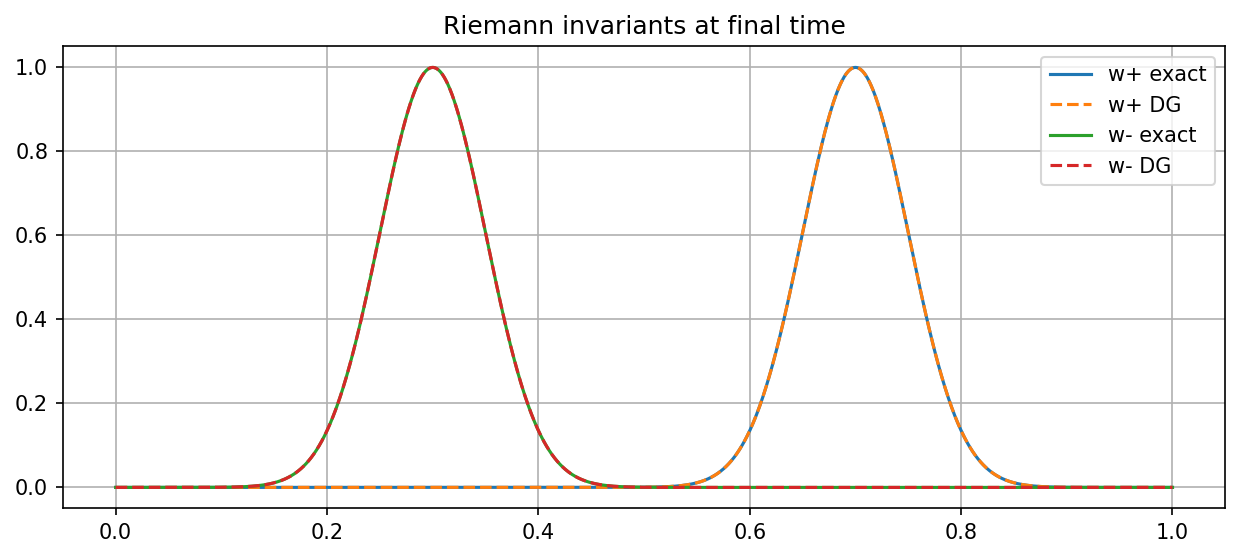
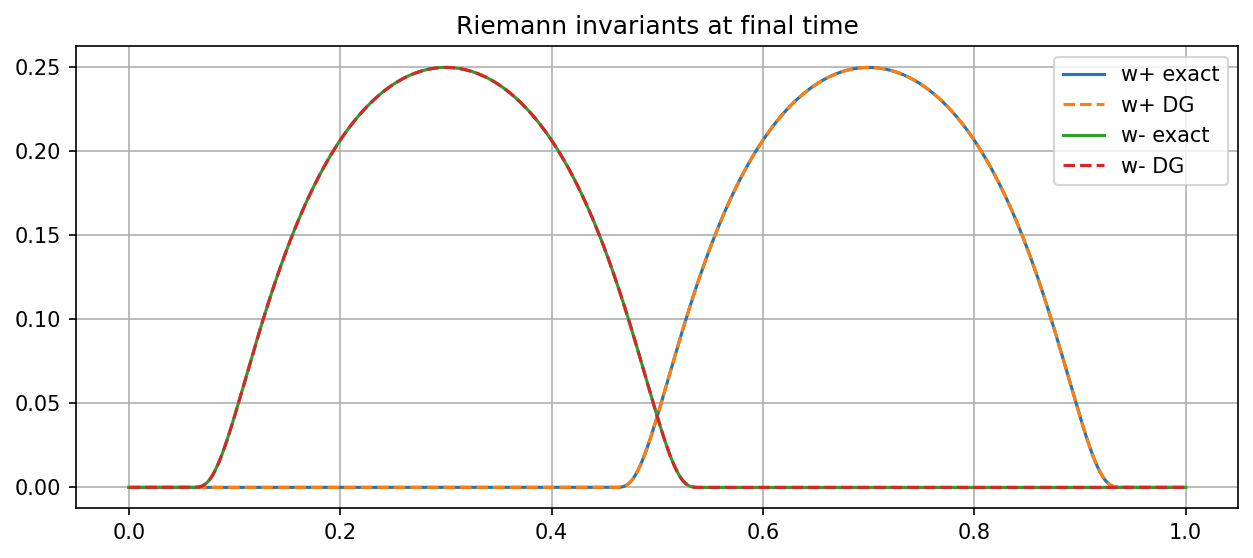
update git ignore and initial condition

diff --git a/Report&Presentation/report.tex b/Report&Presentation/report.tex
@@ -231,7 +231,29 @@ As shown in Figure \ref{fig:dg_solution}, the numerical solution obtained using 
 the wave propagation over time described in \ref{eq:solution_p} and \ref{eq:solution_v}. The method effectively resolves the wave fronts 
 and maintains stability throughout the simulation.
 
+The convergence of the DG method was verified by comparing the numerical solution to the analytical solution at various time steps with an Explicit Euler
+time integration scheme and a Runge-Kutta 2nd order scheme. 
+\newpage
+\begin{figure}[htbp]
+    \centering
+    \begin{minipage}[t]{0.48\textwidth}
+        \centering
+        \includegraphics[width=\textwidth]{Images/dg_convergence_euler.png}
+        \caption{Convergence of the DG method with Explicit Euler scheme.}
+        \label{fig:convergence_plot_euler}
+    \end{minipage}
+    \hfill
+    \begin{minipage}[t]{0.48\textwidth}
+        \centering
+        \includegraphics[width=\textwidth]{Images/dg_convergence_rk2.png}
+        \caption{Convergence of the DG method with Rk2 scheme.}
+        \label{fig:convergence_plot_rk2}
+    \end{minipage}
+\end{figure}
 
+The convergences verify the theoritical rates of convergence for the DG method with polynomial degree $d$ : order $d$ for the Explicit Euler scheme and order $2d$ for the Runge-Kutta 2nd order scheme.
+
+\section{Conclusion}
 \newpage
 \printbibliography
 

diff --git a/dg.py b/dg.py
@@ -209,6 +209,21 @@ def parse_args():
     parser.add_argument("--tfinal", type=float, default=0.2,
                         help="Final time")
     return parser.parse_args()
+
+
+#-------------------------
+# Initial compactly supported bump function
+#-------------------------
+def intit_func(x, phi0=1.0):
+    """
+    Bump function:
+        φ(x) = φ0/4 * exp( 1 - 1/(1 - (4x-2)**2) )  if |x-1/2| < 1/4
+               0                                  otherwise
+    """
+    mask = jnp.abs(x - 0.5) < 0.25
+    val = (phi0 / 4.0) * jnp.exp(1.0 - 1.0 / (1.0 - (4.0*x - 2.0)**2))
+    return jnp.where(mask, val, 0.0)
+
 # -------------------------
 # test: p0 gaussian, v0=0
 # -------------------------
@@ -229,10 +244,14 @@ def main():
     print('smax',smax)
     CFL = 0.05
     # initial condition: p0 gaussian, v0 = 0
+
     def p0(x):
-        x0 = 0.5
-        sigma = 0.05
-        return jnp.exp(-0.5 * ((x - x0)/sigma)**2)
+        #x0 = 0.5
+        #sigma = 0.05
+        #return jnp.exp(-0.5 * ((x - x0)/sigma)**2)
+        return intit_func(x, phi0=1.0)
+
+    
     def v0(x):
         return 0.0
 

diff --git a/Report&Presentation/presentation.tex b/Report&Presentation/presentation.tex
@@ -266,15 +266,15 @@ To validate the implementation of the DGM, we consider a simplified model :
 \begin{columns}[T]
     \begin{column}{0.5\textwidth}
         \centering
-        \includegraphics[width=\linewidth]{Images/dg_convergence.png}
-        \scriptsize DG convergence.
-        \label{fig:dg_convergence}
+        \includegraphics[width=\linewidth]{Images/dg_convergence_euler.png}
+        \scriptsize DG convergence with Explicit Euler scheme.
+        \label{fig:dg_convergence_euler}
     \end{column}
     \begin{column}{0.5\textwidth}
         \centering
-        \includegraphics[width=\linewidth]{Images/dg_duration.png}
-        \scriptsize DG solution.
-        \label{fig:dg_duration}
+        \includegraphics[width=\linewidth]{Images/dg_convergence_rk2.png}
+        \scriptsize DG convergence with Runge-Kutta 2nd order scheme.
+        \label{fig:dg_convergence_rk2}
     \end{column}
 \end{columns}
 \end{frame}
